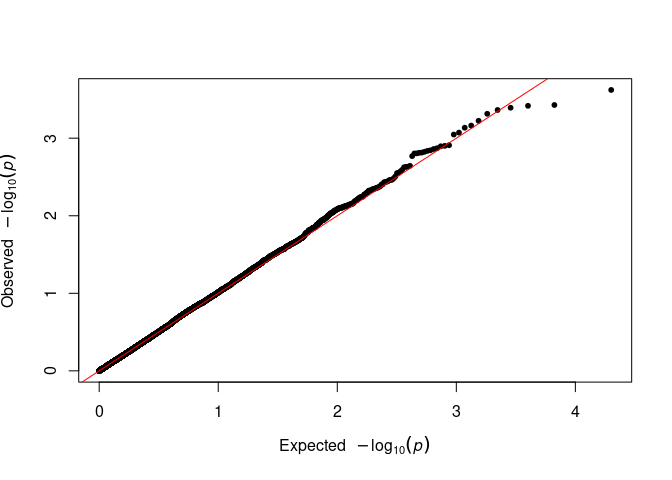
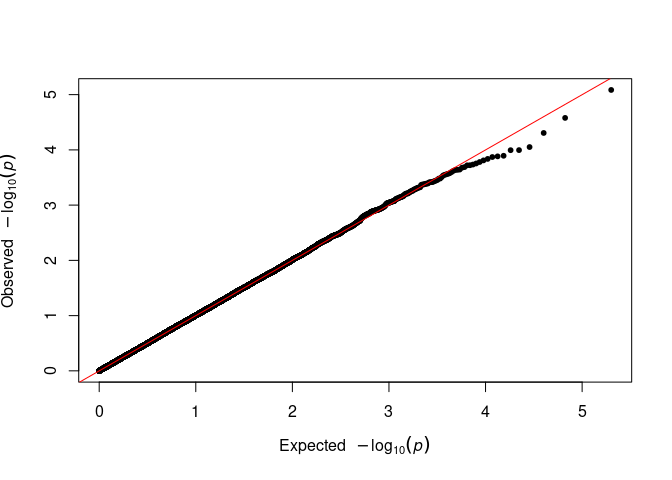
All implemented for version 0.0.1

diff --git a/src/code.cpp b/src/code.cpp
@@ -11,7 +11,7 @@ struct greater
   bool operator()(T const &a, T const &b) const { return a > b; }
 };
 
-//' @export
+//' @noRd
 // [[Rcpp::export]]
 DataFrame drop_dense_internal(NumericVector sorted_sample,
                               NumericVector sorted_theoretical,
@@ -53,10 +53,11 @@ DataFrame drop_dense_internal(NumericVector sorted_sample,
 
 //' @noRd
 // [[Rcpp::export]]
-DataFrame drop_dense_qq(NumericVector sample) {
-  int N_hard = 10000;
+DataFrame drop_dense_qq(NumericVector sample, int N_hard) {
   // Step 1:
   // Remove inf, NA, NaN, <0 and >1 and add to std::vector
+  // This is to be consistent with the qqman::qq functionality, this
+  // is considerably faster in cpp.
   std::vector<double> x(sample.size());
   size_t k=0;
   for (size_t i = 0; i < x.size(); ++i) {
@@ -71,17 +72,19 @@ DataFrame drop_dense_qq(NumericVector sample) {
   x.resize(k);
 
   // Step 2:
-  // Sort reverse order and -log10.
+  // Sort reverse order
   std::sort(x.begin(), x.end(),greater());
 
   // Step 3:
-  // Create y
+  // Create y, -log10 transformed theoretical uniform quantiles.
   std::vector<double> y(k);
   double max_n = (double)(k);
   for(size_t i = 0; i < k; ++i){
     y[i] = -log10(((double)(i)+0.5)/(max_n));
   }
 
+  // Step 4:
+  // Prune.
   size_t len = k;
   double minx = x[len-1];
   double maxx = x[0];
@@ -107,7 +110,7 @@ DataFrame drop_dense_qq(NumericVector sample) {
       d = d_x;
     }
   }
-  // Do the computation for comparing the speed gain
+
   DataFrame df = DataFrame::create(
     Named("sorted_pruned_sample") = NumericVector(final_x.begin(), final_x.end()),
     Named("sorted_pruned_theoretical") = NumericVector(final_y.begin(), final_y.end())

diff --git a/src/RcppExports.cpp b/src/RcppExports.cpp
@@ -24,20 +24,21 @@ BEGIN_RCPP
 END_RCPP
 }
 // drop_dense_qq
-DataFrame drop_dense_qq(NumericVector sample);
-RcppExport SEXP _fastqq_drop_dense_qq(SEXP sampleSEXP) {
+DataFrame drop_dense_qq(NumericVector sample, int N_hard);
+RcppExport SEXP _fastqq_drop_dense_qq(SEXP sampleSEXP, SEXP N_hardSEXP) {
 BEGIN_RCPP
     Rcpp::RObject rcpp_result_gen;
     Rcpp::RNGScope rcpp_rngScope_gen;
     Rcpp::traits::input_parameter< NumericVector >::type sample(sampleSEXP);
-    rcpp_result_gen = Rcpp::wrap(drop_dense_qq(sample));
+    Rcpp::traits::input_parameter< int >::type N_hard(N_hardSEXP);
+    rcpp_result_gen = Rcpp::wrap(drop_dense_qq(sample, N_hard));
     return rcpp_result_gen;
 END_RCPP
 }
 
 static const R_CallMethodDef CallEntries[] = {
     {"_fastqq_drop_dense_internal", (DL_FUNC) &_fastqq_drop_dense_internal, 3},
-    {"_fastqq_drop_dense_qq", (DL_FUNC) &_fastqq_drop_dense_qq, 1},
+    {"_fastqq_drop_dense_qq", (DL_FUNC) &_fastqq_drop_dense_qq, 2},
     {NULL, NULL, 0}
 };
 

diff --git a/README.md b/README.md
@@ -57,23 +57,9 @@ devtools::install_github("gumeo/fastqq")
 The following is an example from very simple simulated data:
 
 ``` r
-library(fastqq)
-#> ** ----------------------------------------------------------------- **
-#> ** fastqq
-#> **  - Faster QQ plots for large number of points
-#> **
-#> ** Maintainer : Gudmundur Einarsson  (gudmundur.einarsson.phd@gmail.com)
-#> **
-#> ** Please file issues on github.com/gumeo/fastqq.
-#> ** If you use this package, please cite it.
-#> ** ----------------------------------------------------------------- **
-#> 
-#> Attaching package: 'fastqq'
-#> The following object is masked from 'package:stats':
-#> 
-#>     qqplot
+suppressPackageStartupMessages(library(fastqq))
 set.seed(42)
-p_simulated <- runif(10000)
+p_simulated <- runif(100000)
 # Classic way to do this with qqman
 qqman::qq(p_simulated)
 ```
@@ -109,15 +95,15 @@ time_method <- function(pkg_name, method){
 N_test <- c(1e3,1e4,1e5,1e6,1e8)
 time_method('fastqq','qq')
 #> [1] "Timing fastqq::qq with 1000 points"
-#> 0.024 sec elapsed
+#> 0.025 sec elapsed
 #> [1] "Timing fastqq::qq with 10000 points"
-#> 0.012 sec elapsed
+#> 0.025 sec elapsed
 #> [1] "Timing fastqq::qq with 1e+05 points"
-#> 0.026 sec elapsed
+#> 0.025 sec elapsed
 #> [1] "Timing fastqq::qq with 1e+06 points"
-#> 0.123 sec elapsed
+#> 0.127 sec elapsed
 #> [1] "Timing fastqq::qq with 1e+08 points"
-#> 9.445 sec elapsed
+#> 9.803 sec elapsed
 N_test <- c(1e3,1e4,1e5,1e6)
 time_method('qqman','qq')
 #> [1] "Timing qqman::qq with 1000 points"
@@ -125,14 +111,48 @@ time_method('qqman','qq')
 #> [1] "Timing qqman::qq with 10000 points"
 #> 0.025 sec elapsed
 #> [1] "Timing qqman::qq with 1e+05 points"
-#> 0.248 sec elapsed
+#> 0.241 sec elapsed
 #> [1] "Timing qqman::qq with 1e+06 points"
-#> 2.486 sec elapsed
+#> 2.482 sec elapsed
 ```
 
-So we can expect around 8-10X speedup, and for 100 million points (order
-of magnitude for modern GWAS), `fastqq::qq` takes 30 seconds on the same
+So we can expect around 25X speedup, and for 100 million points (order
+of magnitude for modern GWAS), `fastqq::qq` takes 10 seconds on the same
 hardware as for the timings above.
+
+### `qqnorm` example
+
+We can use `qqnorm` just like from `stats::qqnorm`. The only difference
+is in the output, we return sorted output, and exclude `NA`s.
+
+``` r
+set.seed(42)
+suppressPackageStartupMessages(library(fastqq))
+fastqq::qqnorm(rnorm(1e6))
+```
+
+<img src="man/figures/README-qqnorm_ex-1.png" width="100%" />
+
+### `qqplot` example
+
+``` r
+set.seed(42)
+suppressPackageStartupMessages(library(fastqq))
+fastqq::qqplot(rnorm(1e6),rnorm(1e6))
+```
+
+<img src="man/figures/README-qqplot_ex-1.png" width="100%" />
+
+### `drop_dense` and plot with `ggplot` example
+
+``` r
+set.seed(42)
+suppressPackageStartupMessages(library(fastqq))
+suppressPackageStartupMessages(library(ggplot2))
+fastqq::qqnorm(rnorm(1e6))
+```
+
+<img src="man/figures/README-ggplot-1.png" width="100%" />
 
 # Note on other efforts
 
